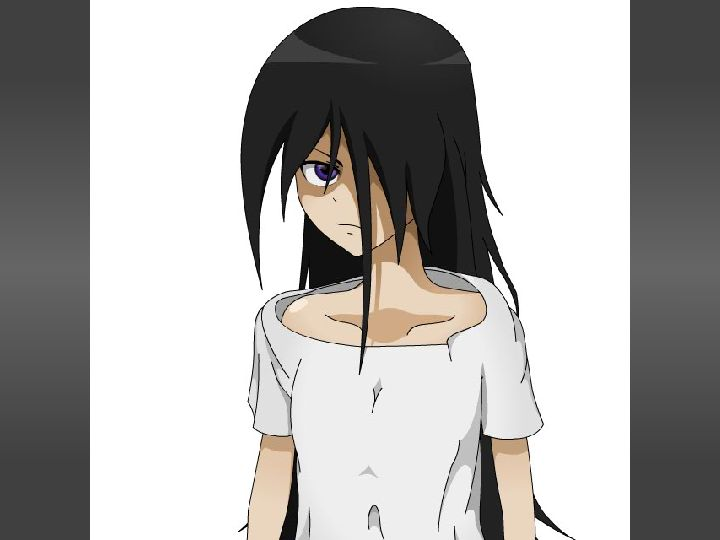
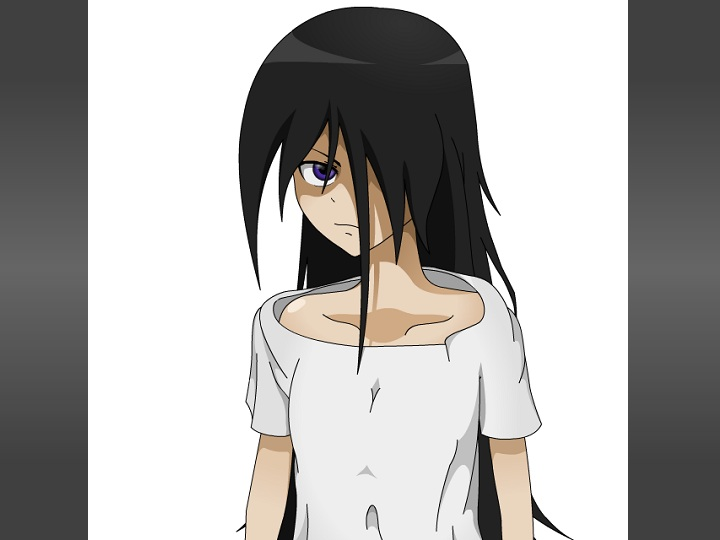
site update follow up

diff --git a/artwork.html b/artwork.html
@@ -86,7 +86,7 @@
 								<li data-target="#concept-slides" data-slide-to="0" class="active"></li>
 								<li data-target="#concept-slides" data-slide-to="1"></li>
 								<li data-target="#concept-slides" data-slide-to="2"></li>
-								<!-- <li data-target="#concept-slides" data-slide-to="3"></li> -->
+								<li data-target="#concept-slides" data-slide-to="3"></li>
 							</ol>
 							<div class="carousel-inner">
 								
@@ -94,8 +94,20 @@
 									<img src="img/artworkshowcase/profilepic.jpg" alt="Yiman Von">
 									<div class="container">
 										<div class="carousel-caption">
-											<h2 style="color: black;">
+											<h2 style="color: gray;">
 												Drawing myself a github profile picture...
+											</h2>
+										</div>
+									</div>
+								</div>
+								
+								<div class="item">
+									<img src="img/artworkshowcase/drawing3.jpg" alt="Yiman Von">
+									<div class="container">
+										<div class="carousel-caption">
+											<h2 style="color: gray;">
+												A drawing that comes before profile pic drawing, 
+												which is a scratch of the character design.
 											</h2>
 										</div>
 									</div>
@@ -130,17 +142,44 @@
 
 					</li><hr />
 					
-					<!--
 					<li class="showcase-item">
 						
 						<div class="showcase-block">
 							<h3>
 								Videos
 							</h3>
+							
+							<ul>
+								<li>
+									<strong>A glimpse of Chinese high school life?</strong>
+									
+									<div class="video-block">
+									<embed src="http://player.youku.com/player.php/sid/XNDcxOTIzMTI0/v.swf" allowFullScreen="true" quality="high" width="480" height="400" align="middle" allowScriptAccess="always" type="application/x-shockwave-flash"></embed>
+									</div>
+									
+									<p>
+										Uploaded to <a href="http://www.youku.com/">Youku</a>, a Chinese video sharing web page.
+									</p>
+									<p>
+										Made for my high school graduation ceremony in 2011. Every class in the grade had a demonstration 
+										to show and our class's demonstration is a video. The video is all done by me, including raw 
+										photo & video collection, editing, sound alignment, etc.
+									</p>
+									
+									<p>Credits:</p>
+									
+									<ul>
+										<li>Tools: Flash + Bandicam + Format Factory</li>
+										<li>
+											BGM: SNoW - Bleach (english version) <br />
+											(Due to circumstances at graduation ceremony I couldn't give credit of the song in video)
+										</li>
+									</ul>
+								</li>
+							</ul>
 						</div>
 						
-					</li>
-					-->
+					</li><hr />
 				<ul>
 			</div>
 		</div>

diff --git a/index.html b/index.html
@@ -128,7 +128,7 @@
 							<div class="panel-body">
 								<p>Anime</p>
 								<p>PC Games</p>
-								<p>Game Making / Game Development</p>
+								<p>Game Development</p>
 							</div>
 						</div>
 						
@@ -149,6 +149,20 @@
 						<li><a href="projpersonal.html">Personal</a></li>
 						<li><a href="projschool.html">School</a></li>
 					</ul>
+				</div>
+				
+			</div>
+			
+			<div class="container">
+				
+				<div class="page-header">
+					<h1 class="title">Artwork</h1>
+				</div>
+				
+				<div class="col-lg-6 big-font">
+					<p>
+						<a href="artwork.html">See artwork section</a>
+					</p>
 				</div>
 				
 			</div>

diff --git a/projpersonal.html b/projpersonal.html
@@ -183,7 +183,7 @@
 								<a href="https://github.com/spotco/CyberpunkWindowCleaner">Source Code</a>
 							</p>
 						</div>
-					</li>
+					</li><hr />
 				</ul>
 			</div>
 			
@@ -212,7 +212,7 @@
 								<a href="https://github.com/DonovanWu/EpicPon">Source Code</a>
 							</p>
 						</div>
-					</li>
+					</li><hr />
 				</ul>
 			</div>
 			

diff --git a/stylesheet.css b/stylesheet.css
@@ -56,6 +56,10 @@ body{
 	color: #428BDC;
 }
 
+.video-block {
+	margin: 10px;
+}
+
 .secret {
 	background-color: black;
 	color: black;
